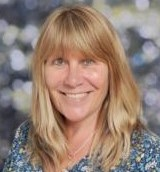
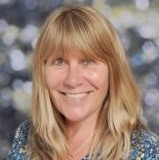
added alexa gainsbury to governors, cropped photos square

diff --git a/src/about-us/governors.md b/src/about-us/governors.md
@@ -25,8 +25,8 @@ people:
   - description: Pete Obsorne, Clerk
     picture: /uploads/pete-osborne.jpg
   - description: Ruth Dennis, Co-opted Governor
-    picture: /uploads/ruth-d-5-.jpg
-  - description: Kate Eames, Co-opted Governor,
+    picture: /uploads/ruth-d.jpg
+  - description: Kate Eames, Co-opted Governor
     picture: /uploads/kate-e.png
   - description: Ruth Shoare, Parent Governor
     picture: /uploads/ruth-s.jpg
@@ -34,6 +34,8 @@ people:
     picture: /uploads/am.jpg
   - description: Gill Quantrell, Co-opted Governor
     picture: /uploads/gill-q-2-.bmp
+  - description: Alexa Gainsbury, Co-opted Governor
+    picture: /uploads/Alexa-Gainsbury.jpg
   - description: Craig Veal, Staff Governor
     picture: /uploads/placeholder.png
 termsOfReference:
